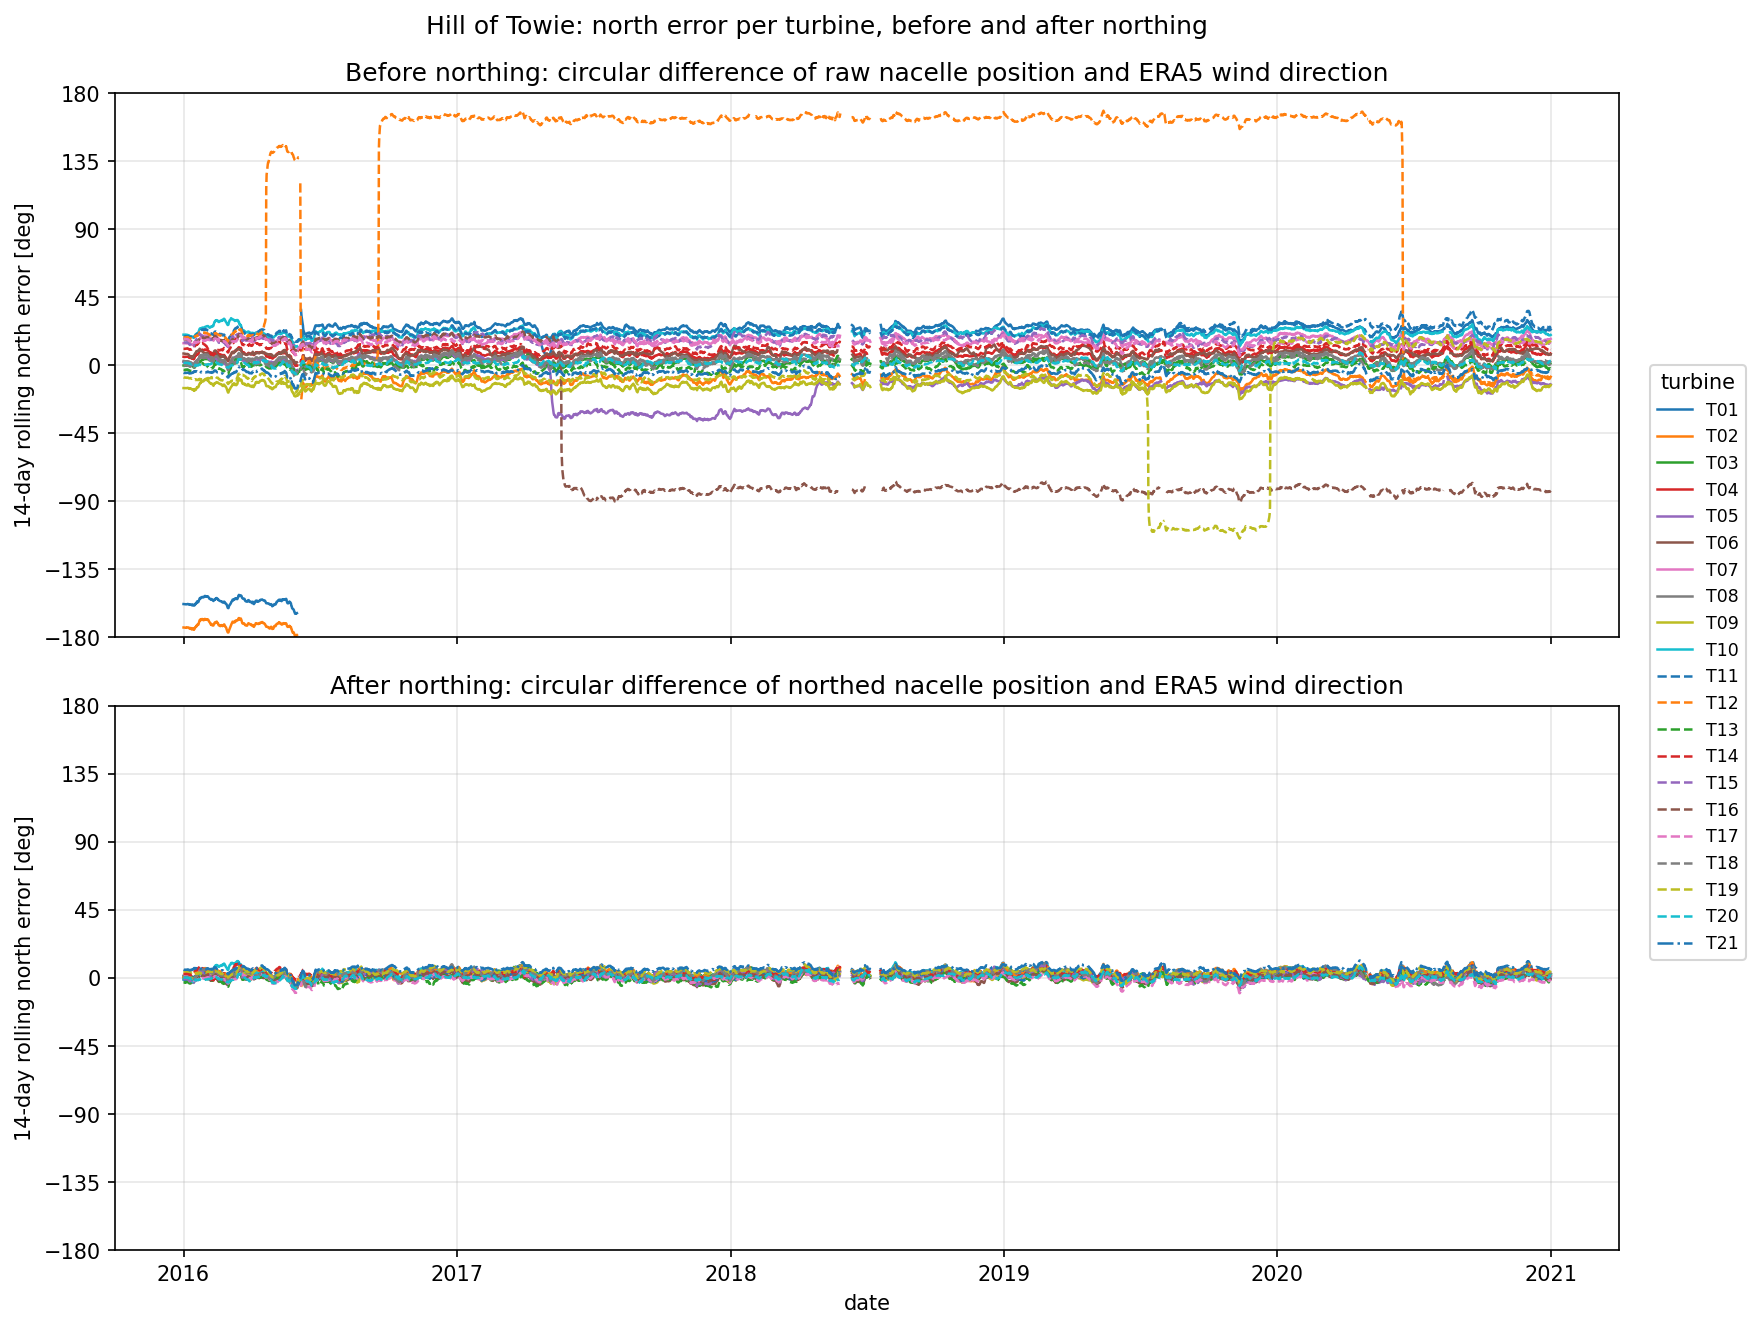
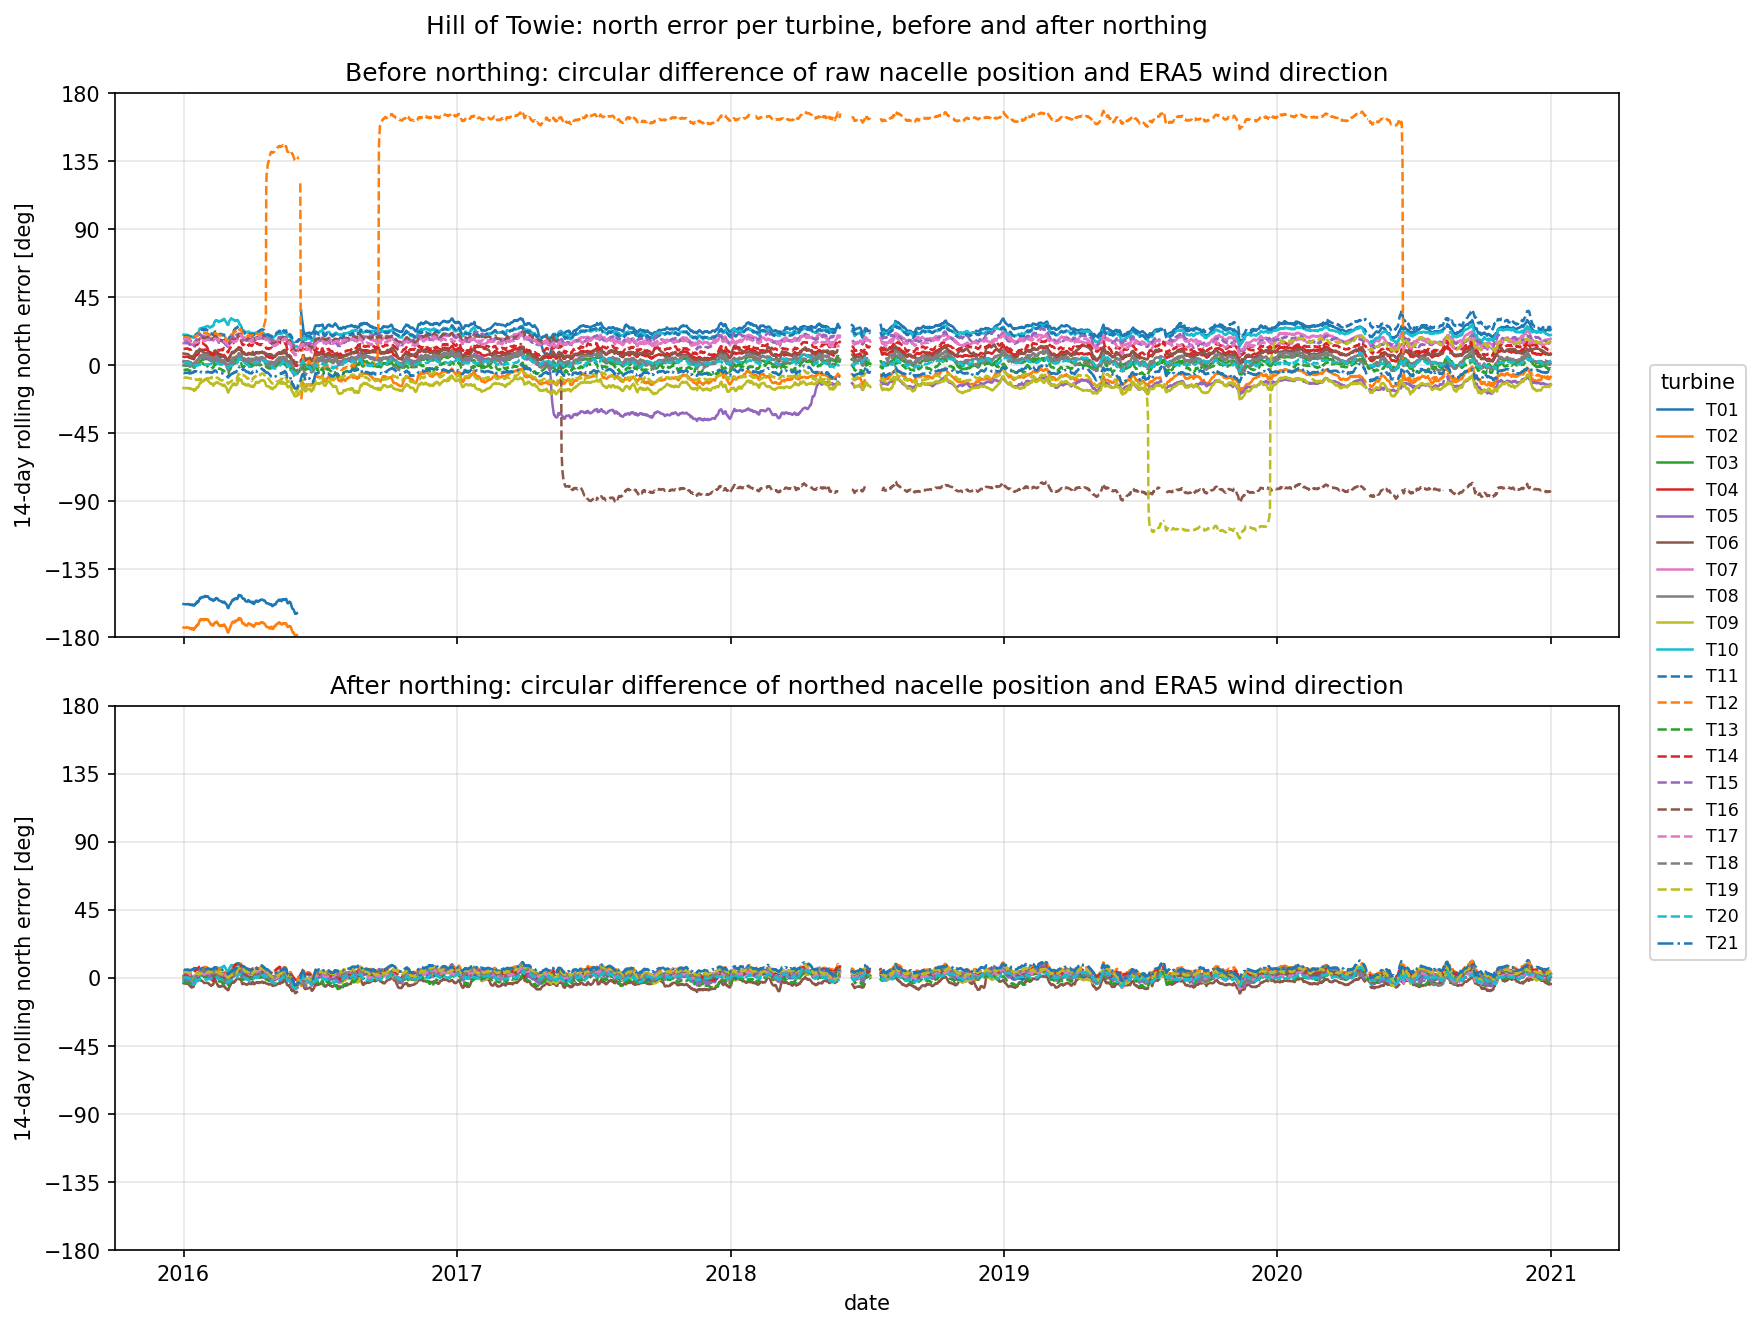
Wake-nadir shift: read only pairs whose upstream turbine sees free stream (#163)
* Wake-nadir shift: read only pairs whose upstream turbine sees free stream

A pair's downstream-over-upstream ratio locates the upstream turbine's error only when nothing
wakes the upstream turbine on the pair's bearing. Otherwise the two wakes mix: the dip is shallow
and, when the third turbine is off the line, off-centre, so it reports an error where there is
none. In a large regular array this biased interior turbines by several degrees while edge
turbines read about zero.

Pairs are now read only when no turbine is upwind of the upstream one on the bearing (IEC
disturbed sector, layout.upwind_mask). With fewer pairs, a turbine resting on one marginal curve
became fragile on short Hill of Towie records, so a turbine now needs two resolved pairs to take
its own correction (one when no turbine in the farm has two); the rest take their neighbours'.

The fast Hill of Towie degradation figures are re-recorded; every case is within its old
allowance and several improve (7d early 16.9 -> 7.6 deg, N=3,90d late 12.3 -> 1.5 deg).

* Northing tests: re-record the slow degradation cases, tighten the skewed-row test

The slow Hill of Towie degradation figures are re-recorded with the free-stream wake-nadir pairs;
all were within their old allowances. drop75% early worsens (4.3 -> 7.4 deg) and is noted; the
others improve or hold. The skewed-row case lands at -0.08 deg on every turbine, so its tolerance
goes from 0.5 to 0.2 deg.
[…]

Changed region(s): [[0.0938, 0.7101, 0.875, 0.741]]

diff --git a/tests/wind_up/test_wake_nadir.py b/tests/wind_up/test_wake_nadir.py
@@ -11,7 +11,7 @@ import pytest
 from wind_up.circular_math import circ_diff
 from wind_up.layout import Layout
 from wind_up.northing import add_wake_nadir_shift, apply_north_table, north_farm
-from wind_up.wake_nadir import _aggregate, wake_nadir_offsets, wake_pair_curves, wake_pairs
+from wind_up.wake_nadir import _aggregate, _own_corrections, wake_nadir_offsets, wake_pair_curves, wake_pairs
 
 
 def _index(rows: int) -> pd.DatetimeIndex:
@@ -278,6 +278,96 @@ def test_wake_pair_curves_find_the_nadir_the_offsets_correct() -> None:
     assert curves.wind_speed_ratio is not None
     assert len(curves.offset_deg) == len(curves.power_ratio) == len(curves.wind_speed_ratio)
     assert float(curves.offset_deg[int(np.nanargmin(curves.power_ratio))]) == pytest.approx(residual, abs=1.0)
+
+
+_EARTH_RADIUS_M = 6_371_000.0
+
+
+def _place(latitude: float, longitude: float, *, bearing_deg: float, distance_m: float) -> tuple[float, float]:
+    north = np.cos(np.deg2rad(bearing_deg)) * distance_m
+    east = np.sin(np.deg2rad(bearing_deg)) * distance_m
+    return (
+        latitude + float(np.rad2deg(north / _EARTH_RADIUS_M)),
+        longitude + float(np.rad2deg(east / (_EARTH_RADIUS_M * np.cos(np.deg2rad(latitude))))),
+    )
+
+
+def _skewed_row_layout(skew_deg: float = 4.0) -> Layout:
+    """W wakes U and U wakes D, 7 diameters apart, the W-U line ``skew_deg`` off the U-D line.
+
+    D -> U is due west; U -> W is ``skew_deg`` north of west, as in a grid whose rows are not straight
+    or whose columns are not square to them.
+    """
+    spacing = 7 * 82.0
+    d = (55.0, 0.0)
+    u = _place(*d, bearing_deg=270.0, distance_m=spacing)
+    w = _place(*u, bearing_deg=270.0 + skew_deg, distance_m=spacing)
+    frame = pd.DataFrame(
+        {
+            "name": ["W", "U", "D"],
+            "latitude": [w[0], u[0], d[0]],
+            "longitude": [w[1], u[1], d[1]],
+            "rotor_diameter_m": [82.0, 82.0, 82.0],
+        }
+    )
+    return Layout.from_frame(frame)
+
+
+def _waked_farm(
+    layout: Layout, *, rows: int = 20000, seed: int = 0
+) -> tuple[pd.DatetimeIndex, dict[str, np.ndarray], dict[str, np.ndarray], dict[str, np.ndarray]]:
+    """Every turbine's power under a Gaussian wake from each neighbour within 10 diameters.
+
+    Directions are true for every turbine (no northing error at all), swept 30 deg either side of west.
+    """
+    rng = np.random.default_rng(seed)
+    true = 270.0 + rng.uniform(-30.0, 30.0, size=rows)
+    names = [str(n) for n in layout.frame["name"]]
+    power = {}
+    for name in names:
+        i = layout.index_of(name)
+        factor = np.ones(rows)
+        for other in names:
+            j = layout.index_of(other)
+            if other == name or layout.distance_m[i, j] > 10 * 82.0:
+                continue
+            factor *= 1.0 - 0.4 * np.exp(-0.5 * (circ_diff(true, layout.bearing_deg[i, j]) / 4.0) ** 2)
+        power[name] = 1000.0 * factor
+    northed = dict.fromkeys(names, true % 360.0)
+    usable = {name: np.ones(rows, dtype=bool) for name in names}
+    return _index(rows), northed, power, usable
+
+
+def test_a_waked_upstream_turbine_is_not_shifted_by_its_neighbours_wake() -> None:
+    """A pair reads its upstream turbine's error only when that turbine sees free stream on the bearing.
+
+    U wakes D on the D-U bearing, but W wakes U from a few degrees off it, so U's power dips beside the
+    bearing and the downstream-over-upstream ratio's nadir is pulled sideways. Every direction here is
+    true, so every correction must be about zero; reading the U -> D pair would shift U by degrees.
+    """
+    layout = _skewed_row_layout()
+    index, northed, power, usable = _waked_farm(layout)
+
+    offsets = wake_nadir_offsets(layout, index=index, northed_direction=northed, power=power, usable=usable)
+
+    assert offsets == pytest.approx({"W": 0.0, "U": 0.0, "D": 0.0}, abs=0.2)
+
+
+def test_wake_pairs_skip_an_upstream_turbine_that_is_itself_waked_on_the_bearing() -> None:
+    """U sits between W and D, so it is waked on both of its own pairs' bearings; only the end turbines' pairs count."""
+    layout = _skewed_row_layout()
+
+    assert wake_pairs(layout, devices=["W", "U", "D"]) == [("D", "U"), ("W", "U")]
+
+
+def test_a_turbine_with_one_resolved_pair_takes_its_neighbours_correction_when_others_have_two() -> None:
+    """One pair is one curve; a turbine resting on it alone takes its neighbours' answer instead."""
+    assert _own_corrections({"A": [1.0, 1.2], "B": [0.8, 1.4, 1.0], "Z": [13.0]}) == pytest.approx({"A": 1.1, "B": 1.0})
+
+
+def test_single_pairs_still_count_when_no_turbine_has_two() -> None:
+    """In a farm too small for any turbine to resolve two pairs, one pair each is all there is."""
+    assert _own_corrections({"A": [1.0], "B": [], "Z": [3.0]}) == pytest.approx({"A": 1.0, "Z": 3.0})
 
 
 def test_wake_pair_curves_are_none_without_enough_rows() -> None:

diff --git a/src/wind_up/wake_nadir.py b/src/wind_up/wake_nadir.py
@@ -10,7 +10,7 @@ from typing import TYPE_CHECKING
 import numpy as np
 
 from wind_up.circular_math import circ_diff, circ_median
-from wind_up.layout import ROTOR_DIAMETER_COL
+from wind_up.layout import ROTOR_DIAMETER_COL, upwind_mask
 
 if TYPE_CHECKING:
     from collections.abc import Mapping
@@ -25,6 +25,8 @@ logger = logging.getLogger(__name__)
 # Rows a 1-degree bin needs to contribute.
 MIN_BIN_ROWS = 3
 _MIN_POPULATED_BINS = 8
+# Resolved pairs a turbine needs to take its own correction rather than its neighbours'.
+MIN_RESOLVED_PAIRS = 2
 
 
 def wake_nadir_offsets(
@@ -51,9 +53,9 @@ def wake_nadir_offsets(
     devices = sorted(northed_direction)
     masks = usable if usable is not None else {d: np.ones(len(index), dtype=bool) for d in devices}
 
-    resolved: dict[str, float] = {}
+    pair_corrections: dict[str, list[float]] = {}
     for upstream in devices:
-        pairs = [
+        pair_corrections[upstream] = [
             nadir
             for downstream in _downstream_of(layout, upstream=upstream, devices=devices, cutoff=cutoff_diameters)
             if (
@@ -72,14 +74,17 @@ def wake_nadir_offsets(
             )
             is not None
         ]
-        if pairs:
-            resolved[upstream] = _aggregate(pairs)
 
-    return _fill(layout, devices=devices, resolved=resolved)
+    return _fill(layout, devices=devices, resolved=_own_corrections(pair_corrections))
 
 
 def _downstream_of(layout: Layout, *, upstream: str, devices: list[str], cutoff: float) -> list[str]:
-    """Return the devices ``upstream`` can wake: those within ``cutoff`` diameters downstream."""
+    """Return the devices whose wake from ``upstream`` the shift reads.
+
+    A device counts when it is within ``cutoff`` diameters and ``upstream`` sees free stream on the
+    pair's bearing. When another turbine wakes ``upstream`` on that bearing, the downstream-over-upstream
+    ratio mixes the two wakes, and its nadir sits off the bearing even with no northing error.
+    """
     i_up = layout.index_of(upstream)
     out = []
     for downstream in devices:
@@ -87,8 +92,12 @@ def _downstream_of(layout: Layout, *, upstream: str, devices: list[str], cutoff:
             continue
         i_down = layout.index_of(downstream)
         diameter = float(layout.frame[ROTOR_DIAMETER_COL].iloc[i_down])
-        if layout.distance_m[i_down, i_up] <= cutoff * diameter:
-            out.append(downstream)
+        if layout.distance_m[i_down, i_up] > cutoff * diameter:
+            continue
+        bearing = float(layout.bearing_deg[i_down, i_up])
+        if upwind_mask(layout, target=i_up, wind_direction_deg=bearing).any():
+            continue
+        out.append(downstream)
     return out
 
 
@@ -336,6 +345,18 @@ def _convex_vertex(
     if vertex < centres.min() or vertex > centres.max():
         return None
     return vertex, a, b, c
+
+
+def _own_corrections(pair_corrections: Mapping[str, list[float]]) -> dict[str, float]:
+    """Return the turbines that take their own correction, each the aggregate of its resolved pairs.
+
+    A turbine needs ``MIN_RESOLVED_PAIRS`` resolved pairs, so one marginal curve cannot set it; the
+    rest take their neighbours' correction. In a farm where no turbine has that many, one is enough.
+    """
+    need = MIN_RESOLVED_PAIRS
+    if not any(len(pairs) >= need for pairs in pair_corrections.values()):
+        need = 1
+    return {turbine: _aggregate(pairs) for turbine, pairs in pair_corrections.items() if len(pairs) >= need}
 
 
 def _aggregate(pairs: list[float]) -> float:

diff --git a/tests/wind_up/test_northing_real_data.py b/tests/wind_up/test_northing_real_data.py
@@ -161,31 +161,30 @@ def _inputs_for(hot: pd.DataFrame, window: str, case: str) -> tuple[FarmInputs, 
 
 
 # (case, window) -> worst turbine's offset error (deg) against the window's full-data answer, as
-# recorded on the fixture with changepoints-v-consensus repeated to convergence. A case may be up to
-# half again as bad, plus a degree, before it fails: enough for incidental change, not for a real
-# loss of robustness.
+# recorded on the fixture with changepoints-v-consensus repeated to convergence, and the wake-nadir
+# shift reading only free-stream pairs with two resolved pairs per turbine. A case may be up to half
+# again as bad, plus a degree, before it fails: enough for incidental change, not for a real loss of
+# robustness.
 RECORDED_WORST_ERROR = {
     ("N=6", "early"): 1.9,
-    ("N=6", "late"): 1.8,
+    ("N=6", "late"): 1.2,
     ("N=3", "early"): 5.4,
     ("N=3", "late"): 6.9,
-    ("N=2", "early"): 1.9,
+    ("N=2", "early"): 2.0,
     ("N=2", "late"): 1.8,
     ("N=1", "early"): 2.2,
     ("N=1", "late"): 2.7,
-    ("365d", "early"): 2.4,
-    # T11 lands close before the wake-nadir shift, but one of its wake pairs (T11->T13) is marginal and
-    # drops out, swinging its correction.
-    ("365d", "late"): 4.0,
+    ("365d", "early"): 3.9,
+    ("365d", "late"): 1.3,
     ("90d", "early"): 5.9,
     ("90d", "late"): 2.4,
     ("30d", "early"): 7.5,
-    ("30d", "late"): 3.1,
-    ("7d", "early"): 16.9,
-    ("7d", "late"): 5.8,
-    ("N=3,90d", "early"): 1.9,
-    ("N=3,90d", "late"): 12.3,
-    ("N=2,30d", "early"): 1.1,
+    ("30d", "late"): 4.9,
+    ("7d", "early"): 7.6,
+    ("7d", "late"): 6.5,
+    ("N=3,90d", "early"): 2.1,
+    ("N=3,90d", "late"): 1.5,
+    ("N=2,30d", "early"): 1.3,
     ("N=2,30d", "late"): 1.8,
     ("N=1,14d", "early"): 4.5,
     ("N=1,14d", "late"): 0.8,
@@ -195,13 +194,14 @@ RECORDED_WORST_ERROR = {
 # Cases that cost a full-farm, full-window run each: CI only.
 RECORDED_WORST_ERROR_SLOW = {
     ("N=10", "early"): 2.0,
-    ("N=10", "late"): 1.8,
-    ("drop50%", "early"): 2.0,
-    ("drop50%", "late"): 5.6,
-    ("drop75%", "early"): 4.3,
-    ("drop75%", "late"): 7.8,
-    ("6mo_outage", "early"): 1.9,
-    ("6mo_outage", "late"): 1.0,
+    ("N=10", "late"): 1.4,
+    ("drop50%", "early"): 1.9,
+    ("drop50%", "late"): 5.5,
+    # 4.3 before the wake-nadir shift read only free-stream pairs.
+    ("drop75%", "early"): 7.4,
+    ("drop75%", "late"): 8.5,
+    ("6mo_outage", "early"): 2.0,
+    ("6mo_outage", "late"): 1.6,
 }
 
 
@@ -226,8 +226,8 @@ class TestDegradation:
 
     What the recorded errors say: to within a few degrees down to a lone turbine or a 90-day record,
     since changepoints-v-reanalysis takes over below three turbines. The weak corners are held where
-    they are rather than hidden: a whole-farm record of a week, three turbines in 2019-2020, and heavy
-    random data loss in 2019-2020.
+    they are rather than hidden: a whole-farm record of a week or a month, three turbines alone, and
+    heavy random data loss in 2019-2020.
     """
 
     @pytest.mark.parametrize(("case", "window"), list(RECORDED_WORST_ERROR), ids=lambda v: v)

diff --git a/docs/northing.md b/docs/northing.md
@@ -118,6 +118,14 @@ bearing. A quadratic fit locates the wake's nadir, where the ratio is lowest. Ho
 turbine's residual error. A nadir that is unbracketed, not convex, too shallow or too thinly sampled
 is rejected.
 
+A pair counts only when its upstream turbine sees free stream on the bearing: no other turbine is
+upwind of it there, within its IEC 61400-12-1 disturbed sector (`wind_up.layout.upwind_mask`).
+When a third turbine wakes the upstream one, the ratio mixes the two wakes. Its dip is shallow and,
+unless the third turbine sits exactly on the same line, off-centre, so it reports a residual error
+where there is none. In a large array this mostly affects interior turbines. They then take their
+correction from their resolved neighbours, as below, which suits a shift meant to correct a
+farm-wide error.
+
 The figure shows one pair on Hill of Towie: T21 waking T19. Before the shift (red), T19's power and
 wind speed, relative to T21's, reach their nadir 6.2 degrees before T21's northed direction reaches the bearing
 between them. T21's shift of +6.2 degrees moves the nadir onto the bearing (blue).
@@ -125,8 +133,10 @@ between them. T21's shift of +6.2 degrees moves the nadir onto the bearing (blue
 ![T19's power and wind-speed ratio to T21, binned by T21's direction, before and after the wake-nadir shift](images/northing/wake_nadir_pair_T21_T19.png)
 
 A turbine's pairs are combined by their circular median, so a majority of consistent pairs
-outvotes one biased by terrain or wake deflection. A turbine with no resolvable pair takes the
-circular median of its nearest resolved turbines, or zero if there are none. The shift moves every
+outvotes one biased by terrain or wake deflection. A turbine needs two resolved pairs to take its
+own correction, because one marginal curve can be many degrees out; in a farm where no turbine
+resolves two, one is enough. A turbine short of that takes the circular median of its nearest
+resolved turbines, or zero if there are none. The shift moves every
 offset in the turbine's table and never changes which rows are valid or where the changepoints are.
 
 The map shows every Hill of Towie turbine's shift. Most are small and positive, with a median of
